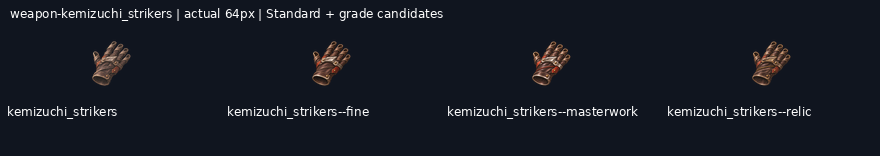
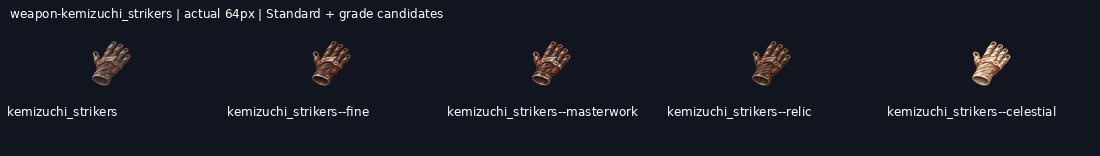
art: draw weapon-kemizuchi_strikers--celestial grade candidate

diff --git a/art/_archive/gear/2026-11-19-kept-blade-grades/HANDOFF.md b/art/_archive/gear/2026-11-19-kept-blade-grades/HANDOFF.md
@@ -1,9 +1,9 @@
 # Kept-blade grade candidates
 
-**40/68 grade candidates delivered** on `art/2026-11-19-kept-blade-grades`. Shared mailbox: https://github.com/leonpentastorm/Project-Heaven-Cry/issues/3 . See claim.json for this lane’s current Standards. Released overlapping blades reuse12 peer candidates, with3 local alternatives archived.
+**41/68 grade candidates delivered** on `art/2026-11-19-kept-blade-grades`. Shared mailbox: https://github.com/leonpentastorm/Project-Heaven-Cry/issues/3 . See claim.json for this lane’s current Standards. Released overlapping blades reuse12 peer candidates, with3 local alternatives archived.
 
 Leon requested continuous candidate production; proof approval is not fabricated. All candidates remain review-candidate, production_approved:false, implementation_ready:false, with outline.review_required:true. Exact outline is measured, never asserted unless the masks match. Per-image registration is uniform scaling/translation only, without warp, silhouette masks, filled pixels or code-drawn substitutes. The generated native remains untouched.
 
 Each image is generated, shown, technically exported, validated, committed and pushed before the next. Sources, versioned masters, exact prompts/reference hashes,256/128/64/32 exports and grade comparison sheets are retained. Standards and earlier deliveries are unchanged. This sparse checkout cannot validate omitted historical files; full-library validation/build is an integration check on a full checkout.
 
-Remaining: weapon-ork_machete--masterwork, weapon-ork_machete--relic, weapon-ork_machete--celestial, weapon-war_axe--fine, weapon-war_axe--masterwork, weapon-war_axe--relic, weapon-war_axe--celestial, weapon-kemizuchi_strikers--celestial, weapon-iron_mitts--fine, weapon-iron_mitts--masterwork, weapon-iron_mitts--relic, weapon-iron_mitts--celestial, focus-evoker--fine, focus-evoker--masterwork, focus-evoker--relic, focus-evoker--celestial, focus-emanator--fine, focus-emanator--masterwork, focus-emanator--relic, focus-emanator--celestial, focus-visualizer--fine, focus-visualizer--masterwork, focus-visualizer--relic, focus-visualizer--celestial, focus-attuner--fine, focus-attuner--masterwork, focus-attuner--relic, focus-attuner--celestial.
+Remaining: weapon-ork_machete--masterwork, weapon-ork_machete--relic, weapon-ork_machete--celestial, weapon-war_axe--fine, weapon-war_axe--masterwork, weapon-war_axe--relic, weapon-war_axe--celestial, weapon-iron_mitts--fine, weapon-iron_mitts--masterwork, weapon-iron_mitts--relic, weapon-iron_mitts--celestial, focus-evoker--fine, focus-evoker--masterwork, focus-evoker--relic, focus-evoker--celestial, focus-emanator--fine, focus-emanator--masterwork, focus-emanator--relic, focus-emanator--celestial, focus-visualizer--fine, focus-visualizer--masterwork, focus-visualizer--relic, focus-visualizer--celestial, focus-attuner--fine, focus-attuner--masterwork, focus-attuner--relic, focus-attuner--celestial.
